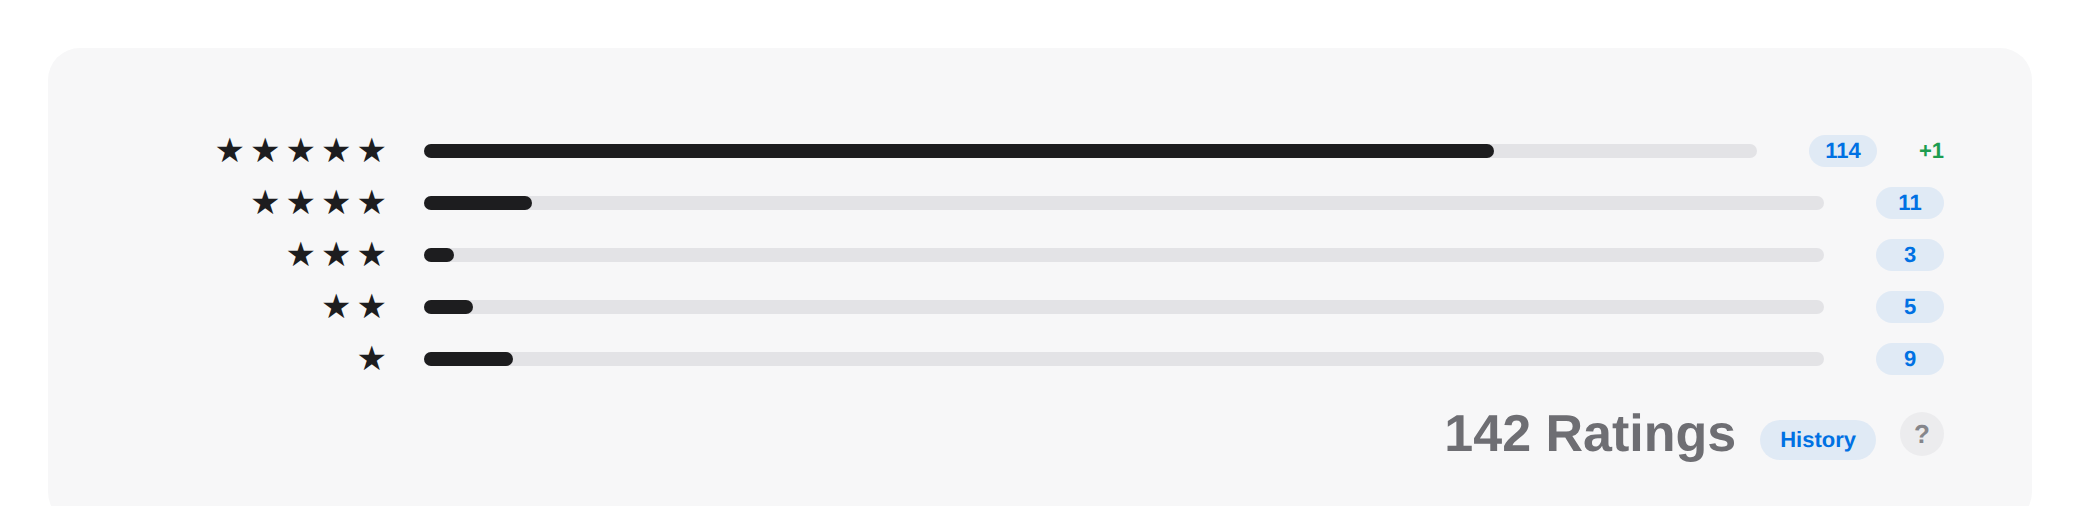
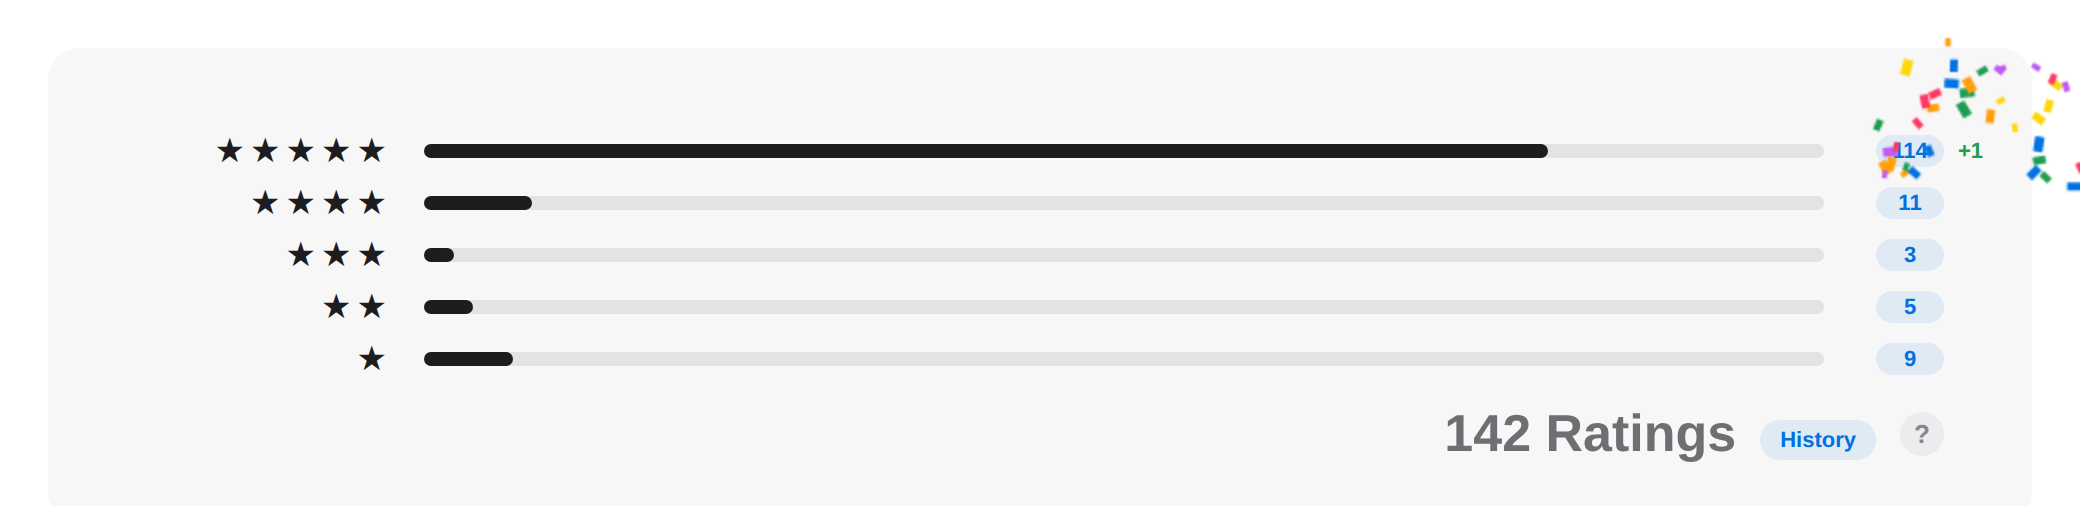
Keep bars full-width when deltas show, add 5-star confetti
The +x/-x badge was a flex sibling in the star row, so it stole width
from that row's bar. It is now absolutely positioned off the row's right
edge, leaving every bar the same width whether or not a delta shows.

When a change detection finds the 5-star count went up, a small canvas
confetti burst fires from the 5-star pill — self-contained, click-
transparent, skipped under prefers-reduced-motion, and it degrades to a
no-op where canvas/rAF are unavailable. Screenshots regenerated.

Claude-Session: https://claude.ai/code/session_0198RV6kGNQSvjuSHWhmQyko

Changed region(s): [[0.875, 0.121, 1.0, 0.3629], [0.7188, 0.2722, 0.75, 0.3025]]

diff --git a/src/modules/review-counter.js b/src/modules/review-counter.js
@@ -189,8 +189,9 @@
   // --- history recording -----------------------------------------------------
 
   // Records a snapshot into store[key] when the counts differ from the last
-  // stored row. Returns true when the store was modified. byStar is indexed
-  // 0..4 for 1..5 stars.
+  // stored row. Returns 'baseline' for the first-ever row, 'changed' when a
+  // change was recorded, false when nothing changed. byStar is indexed 0..4
+  // for 1..5 stars.
   function recordSnapshot(store, key, total, byStar) {
     const history = store[key] || (store[key] = []);
     const last = history[history.length - 1];
@@ -204,7 +205,89 @@
     if (history.length > MAX_ROWS_PER_CHART) {
       history.splice(0, history.length - MAX_ROWS_PER_CHART);
     }
-    return true;
+    return last ? 'changed' : 'baseline';
+  }
+
+  // --- confetti --------------------------------------------------------------
+  // A little celebration when a "+" shows up. Purely decorative: any failure
+  // (no canvas, no rAF, reduced-motion preference) silently skips it.
+
+  let confetti = null; // { canvas, ctx, parts, raf }
+
+  function celebrate(origins) {
+    try {
+      if (!origins.length || typeof requestAnimationFrame !== 'function') return;
+      if (
+        typeof window.matchMedia === 'function' &&
+        window.matchMedia('(prefers-reduced-motion: reduce)').matches
+      ) {
+        return;
+      }
+      if (!confetti) {
+        const canvas = document.createElement('canvas');
+        const ctx = canvas.getContext && canvas.getContext('2d');
+        if (!ctx) return;
+        canvas.className = 'asc-rc-confetti';
+        canvas.setAttribute('data-asc-ui', '');
+        canvas.width = window.innerWidth;
+        canvas.height = window.innerHeight;
+        document.body.appendChild(canvas);
+        confetti = { canvas, ctx, parts: [], raf: null };
+      }
+      const colors = ['#0071e3', '#1d9d50', '#ff9f0a', '#ff375f', '#bf5af2', '#ffd60a'];
+      for (const el of origins) {
+        const r = el.getBoundingClientRect();
+        const cx = r.left + r.width / 2;
+        const cy = r.top + r.height / 2;
+        for (let i = 0; i < 40; i++) {
+          const angle = -Math.PI / 2 + (Math.random() - 0.5) * Math.PI * 1.3;
+          const speed = 3.5 + Math.random() * 7;
+          confetti.parts.push({
+            x: cx,
+            y: cy,
+            vx: Math.cos(angle) * speed,
+            vy: Math.sin(angle) * speed,
+            size: 4 + Math.random() * 4,
+            color: colors[i % colors.length],
+            rot: Math.random() * Math.PI,
+            vr: (Math.random() - 0.5) * 0.4,
+            life: 60 + Math.random() * 40,
+          });
+        }
+      }
+      if (confetti.raf === null) confetti.raf = requestAnimationFrame(confettiTick);
+    } catch (e) {
+      /* decorative only */
+    }
+  }
+
+  function confettiTick() {
+    const c = confetti;
+    if (!c) return;
+    const { ctx, canvas } = c;
+    ctx.clearRect(0, 0, canvas.width, canvas.height);
+    for (const p of c.parts) {
+      p.x += p.vx;
+      p.y += p.vy;
+      p.vy += 0.18;
+      p.vx *= 0.99;
+      p.rot += p.vr;
+      p.life--;
+      ctx.save();
+      ctx.globalAlpha = Math.max(0, Math.min(1, p.life / 25));
+      ctx.translate(p.x, p.y);
+      ctx.rotate(p.rot);
+      ctx.fillStyle = p.color;
+      ctx.fillRect(-p.size / 2, -p.size / 2, p.size, p.size * 0.62);
+      ctx.restore();
+    }
+    c.parts = c.parts.filter((p) => p.life > 0 && p.y < canvas.height + 20);
+    if (c.parts.length) {
+      c.raf = requestAnimationFrame(confettiTick);
+    } else {
+      canvas.remove();
+      confetti = null;
+    }
   }
 
   // --- DOM annotation ----------------------------------------------------------
@@ -225,16 +308,20 @@
     // Only record history for a fully-rendered 1–5 star chart, so a
     // half-rendered React tree can't store a bogus snapshot.
     let dirty = false;
+    let changedNow = false;
     const starsSeen = rows.map((r) => r.stars).sort().join('');
     if (historyEnabled && starsSeen === '12345') {
       const byStar = [0, 0, 0, 0, 0];
       rows.forEach((row, i) => {
         byStar[row.stars - 1] = counts[i];
       });
-      dirty = recordSnapshot(store, key, total, byStar);
+      const rec = recordSnapshot(store, key, total, byStar);
+      dirty = Boolean(rec);
+      changedNow = rec === 'changed';
     }
 
     const deltas = historyEnabled ? sessionDeltas.get(key) || null : null;
+    let fiveStarDeltaEl = null;
 
     rows.forEach((row, i) => {
       const count = counts[i];
@@ -279,10 +366,14 @@
         if (deltaEl.textContent !== txt) deltaEl.textContent = txt;
         deltaEl.classList.toggle('asc-rc-delta--up', delta > 0);
         deltaEl.classList.toggle('asc-rc-delta--down', delta < 0);
+        if (row.stars === 5 && delta > 0) fiveStarDeltaEl = deltaEl;
       } else if (deltaEl) {
         deltaEl.remove();
       }
     });
+
+    // Confetti, but only for the moment a 5-star gain is first detected.
+    if (changedNow && fiveStarDeltaEl) celebrate([fiveStarDeltaEl]);
 
     ensureHistoryButton(totalEl, key, historyEnabled);
     return dirty;

diff --git a/src/modules/review-counter.css b/src/modules/review-counter.css
@@ -33,14 +33,21 @@
 /* Change since the previous snapshot ("+2" / "-1"), next to the pill and
    inside history-table cells. */
 .asc-rc-delta {
-  flex: 0 0 auto;
-  align-self: center;
-  margin-left: 5px;
   font: 700 11px/16px -apple-system, BlinkMacSystemFont, "SF Pro Text",
     "Helvetica Neue", Helvetica, Arial, sans-serif;
   font-variant-numeric: tabular-nums;
   white-space: nowrap;
   cursor: default;
+}
+
+/* On a star row the delta hangs off the row's right edge (the row is
+   position:relative) instead of participating in the flex layout — so the
+   bar keeps its full width whether or not a delta is showing. */
+.asc-rc-row > .asc-rc-delta {
+  position: absolute;
+  left: calc(100% + 7px);
+  top: 50%;
+  transform: translateY(-50%);
 }
 
 .asc-rc-delta--up {
@@ -49,6 +56,14 @@
 
 .asc-rc-delta--down {
   color: #e30000;
+}
+
+/* Full-viewport confetti canvas — decorative, never intercepts clicks. */
+.asc-rc-confetti {
+  position: fixed;
+  inset: 0;
+  z-index: 999998;
+  pointer-events: none;
 }
 
 /* "History" button under the "N Ratings" total. */

diff --git a/README.md b/README.md
@@ -31,7 +31,8 @@ Details:
 It also **tracks changes over time**:
 
 - Every time you view the chart, the current per-star counts are compared with the last stored snapshot (kept in `chrome.storage.local`, keyed by app id). A new history row is stored **only when a number actually changed** — and only when you actually have the page open; nothing polls in the background.
-- When a change is detected, each changed number gets a green `+x` / red `-x` delta next to its count pill for the rest of the page session.
+- When a change is detected, each changed number gets a green `+x` / red `-x` delta next to its count pill for the rest of the page session. The badge hangs off the right edge of the row, so the bars keep their full width.
+- A new 5-star rating gets confetti. Obviously. (Respects `prefers-reduced-motion`.)
 - A **History** button under the "N Ratings" total opens a panel with a table of every recorded snapshot — date, time, total, and 1–5 star counts, newest first, with per-row deltas against the previous snapshot. History is capped at 500 rows per chart. A **Clear** button in the panel wipes the stored history for that app (with a confirm).
 - History only tracks the unfiltered chart: snapshots, deltas, and the History button are active only while the territory picker shows **All Countries or Regions**. Filtered territories still get count pills, but never touch the stored history.
 
